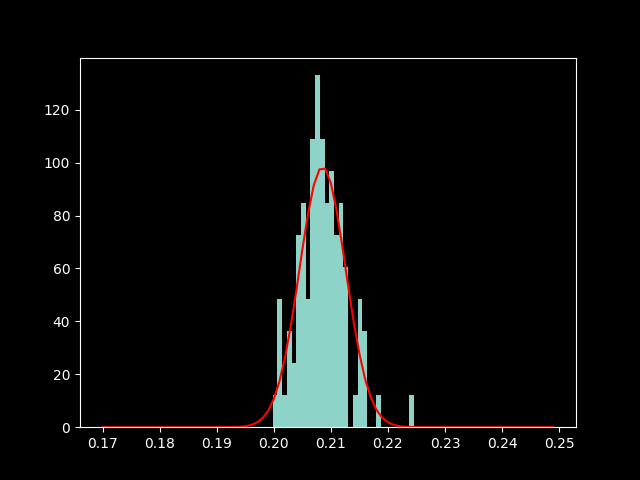
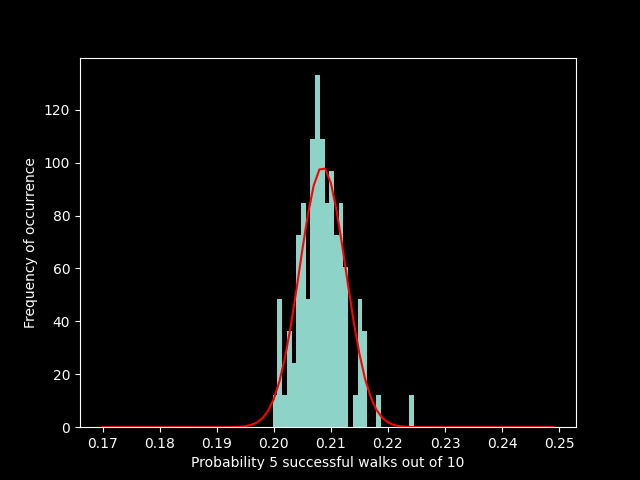
update

Changed region(s): [[0.2812, 0.9375, 0.7188, 1.0], [0.0312, 0.3125, 0.0625, 0.6875]]

diff --git a/stochastics/mc-beam-walk.py b/stochastics/mc-beam-walk.py
@@ -107,6 +107,8 @@ if __name__=="__main__":
     x = [i for i in range(0,total_attempts)]
     pmf = [analytical_solution(val, total_attempts, prob_step_success) for val in x]
     plt.plot(x, pmf, color='red')
+    plt.xlabel('Number of successful beam walks')
+    plt.ylabel('Probability')
     plt.savefig('distribution_beam_problem.png')
  
     # Now lets run the full analysis for an MC simulation
@@ -125,8 +127,21 @@ if __name__=="__main__":
     vals = [normal_dist.pdf(i) for i in x]
     # print(vals)
     plt.plot(x, vals, color='red')
+    plt.xlabel('Probability 5 successful walks out of 10')
+    plt.ylabel('Frequency of occurrence')
     # print(normal_dist)
     plt.savefig('full_mc_sol.png')
     
     # Lets print general results
     print('Full MC simulation yields: {}+-{}, and analytical yields: {}'.format(statistics.mean(results[5]), statistics.stdev(results[5]), analytical_result))
+    
+    # Lets have a look at the convergence
+    plt.figure()
+    n_realisations = [i*1000 for i in range(1,10)]
+    for ep in n_realisations:
+        results = perform_full_mc_simulation(exact_sucesses, total_attempts, prob_step_success, ep, n_epochs)
+        plt.scatter(ep, (statistics.mean(results[5]) - analytical_result) / analytical_result)
+        
+    plt.xlabel('Number of epochs')
+    plt.ylabel('Percent deviation from analytical')
+    plt.savefig('convergence.png')

diff --git a/stochastics/euler-maruyama.py b/stochastics/euler-maruyama.py
@@ -1,10 +1,12 @@
+'''
+Author: Gregory Jones
+Date: 22-11-2022
+Description: Creating an Euler-Maruyama solver and applying it to the Ornstein-Uhlenbeck process
+'''
 import numpy as np
 import matplotlib.pyplot as plt
-from numba import jit
 plt.style.use('dark_background')
-'''
-Creating an Euler-Maruyama solver and applying it to the Ornstein-Uhlenbeck process
-'''
+
 def euler_maruyama(drift, volatility, y0, t0, t1, N):
     '''
     Solves a stochastic differential equation using the Euler-Maruyama method of the form dX = a(X,t)dt + b(X,t)dW were a is the drift function and b is the diffusion function.
